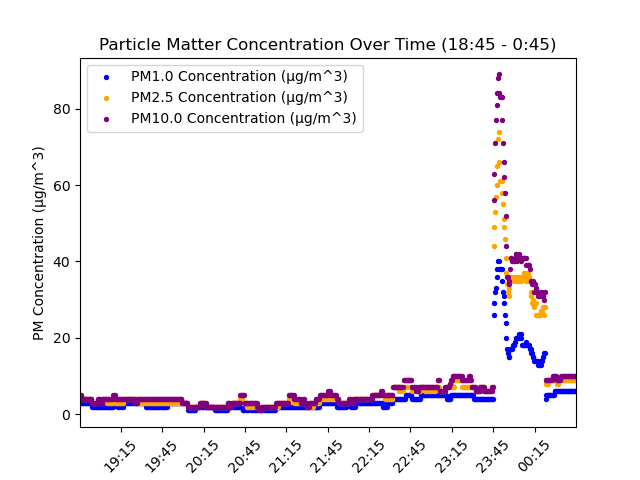
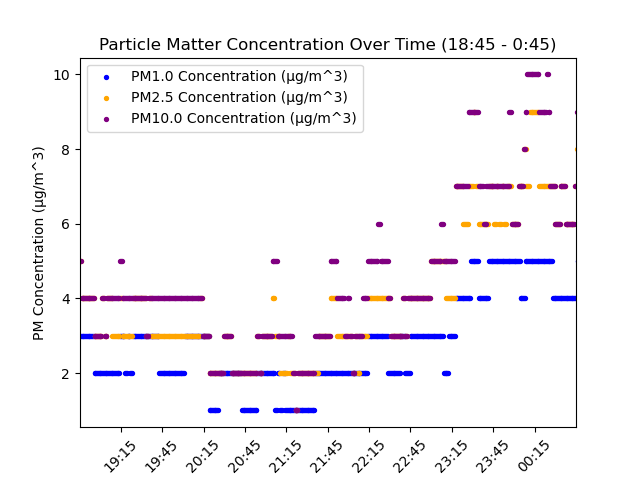
added a graph that filters out outdoor smoking factor

diff --git a/Assignment 4/sensor_collection_and_analysis.py b/Assignment 4/sensor_collection_and_analysis.py
@@ -47,6 +47,11 @@ humidity = []
 temperature = []
 time = []
 
+pm10_concentration_no_smoking = []
+pm25_concentration_no_smoking = []
+pm100_concentration_no_smoking = []
+time_no_smoking = []
+
 with open(csv_file, "r") as f:
     data = csv.reader(f)
     next(data)  # read past header line
@@ -55,6 +60,12 @@ with open(csv_file, "r") as f:
         pm10_concentration.append(int(row[0]))
         pm25_concentration.append(int(row[1]))
         pm100_concentration.append(int(row[2]))
+
+        if int(row[2]) <= 10:
+            pm10_concentration_no_smoking.append(int(row[0]))
+            pm25_concentration_no_smoking.append(int(row[1]))
+            pm100_concentration_no_smoking.append(int(row[2]))
+
         pressure.append(float(row[3]))
         humidity.append(float(row[4]))
         temperature.append(float(row[5]))
@@ -64,6 +75,10 @@ with open(csv_file, "r") as f:
 starting_time = datetime(2023, 6, 9, 18, 45, 30, 0)  # start time for data collection
 for i in range(699):
     time.append((starting_time + timedelta(seconds=30.8571428571 * i)))
+    if i <= 625:
+        time_no_smoking.append((starting_time + timedelta(seconds=37.0497427101 * i)))
+
+print(len(time_no_smoking), len(pm100_concentration_no_smoking))
 
 ax1 = plt.subplot()
 plt.title("Particle Matter Concentration Over Time (18:45 - 0:45)")
@@ -79,7 +94,7 @@ plt.xticks(rotation=45)
 plt.xlim(starting_time - timedelta(seconds=1), starting_time + timedelta(seconds=30.8571428571 * 699) -
          timedelta(seconds=1))
 plt.legend()
-plt.savefig(r"C:\Users\patri\OneDrive\Desktop\ERTH416 Assignment 4 Graphs\pmconcentration")
+plt.savefig(r"C:\Users\patri\OneDrive\Desktop\ERTH416\ERTH416\Assignment 4\pmconcentration_no_smoking")
 plt.show()
 
 ax2 = plt.subplot()
@@ -94,7 +109,7 @@ plt.xticks(rotation=45)
 plt.xlim(starting_time - timedelta(seconds=1), starting_time + timedelta(seconds=30.8571428571 * 699) -
          timedelta(seconds=1))
 plt.legend()
-plt.savefig(r"C:\Users\patri\OneDrive\Desktop\ERTH416 Assignment 4 Graphs\temperature")
+plt.savefig(r"C:\Users\patri\OneDrive\Desktop\ERTH416\ERTH416\Assignment 4\temperature")
 plt.show()
 
 ax3 = plt.subplot()
@@ -109,7 +124,7 @@ plt.xticks(rotation=45)
 plt.xlim(starting_time - timedelta(seconds=1), starting_time + timedelta(seconds=30.8571428571 * 699) -
          timedelta(seconds=1))
 plt.legend()
-plt.savefig(r"C:\Users\patri\OneDrive\Desktop\ERTH416 Assignment 4 Graphs\humidity")
+plt.savefig(r"C:\Users\patri\OneDrive\Desktop\ERTH416\ERTH416\Assignment 4\humidity")
 plt.show()
 
 ax4 = plt.subplot()
@@ -124,5 +139,22 @@ plt.xticks(rotation=45)
 plt.xlim(starting_time - timedelta(seconds=1), starting_time + timedelta(seconds=30.8571428571 * 699) -
          timedelta(seconds=1))
 plt.legend()
-plt.savefig(r"C:\Users\patri\OneDrive\Desktop\ERTH416 Assignment 4 Graphs\pressure")
+plt.savefig(r"C:\Users\patri\OneDrive\Desktop\ERTH416\ERTH416\Assignment 4\pressure")
+plt.show()
+
+ax5 = plt.subplot()
+plt.title("Particle Matter Concentration Over Time (No Outdoor Smoking Factor)")
+ax5.scatter(time_no_smoking, pm10_concentration_no_smoking, color="blue", s=8, label="PM1.0 Concentration (µg/m^3)")
+ax5.scatter(time_no_smoking, pm25_concentration_no_smoking, color="orange", s=8, label="PM2.5 Concentration (µg/m^3)")
+ax5.scatter(time_no_smoking, pm100_concentration_no_smoking, color="purple", s=8, label="PM10.0 Concentration (µg/m^3)")
+ax5.xaxis.set_major_formatter(mdates.DateFormatter("%H:%M"))
+ax5.xaxis.set_major_locator(mdates.MinuteLocator(interval=30))
+
+plt.xlabel("Time")
+plt.ylabel("PM Concentration (µg/m^3)")
+plt.xticks(rotation=45)
+plt.xlim(starting_time - timedelta(seconds=1), starting_time + timedelta(seconds=30.8571428571 * 699) -
+         timedelta(seconds=1))
+plt.legend()
+plt.savefig(r"C:\Users\patri\OneDrive\Desktop\ERTH416\ERTH416\Assignment 4\pmconcentration")
 plt.show()
